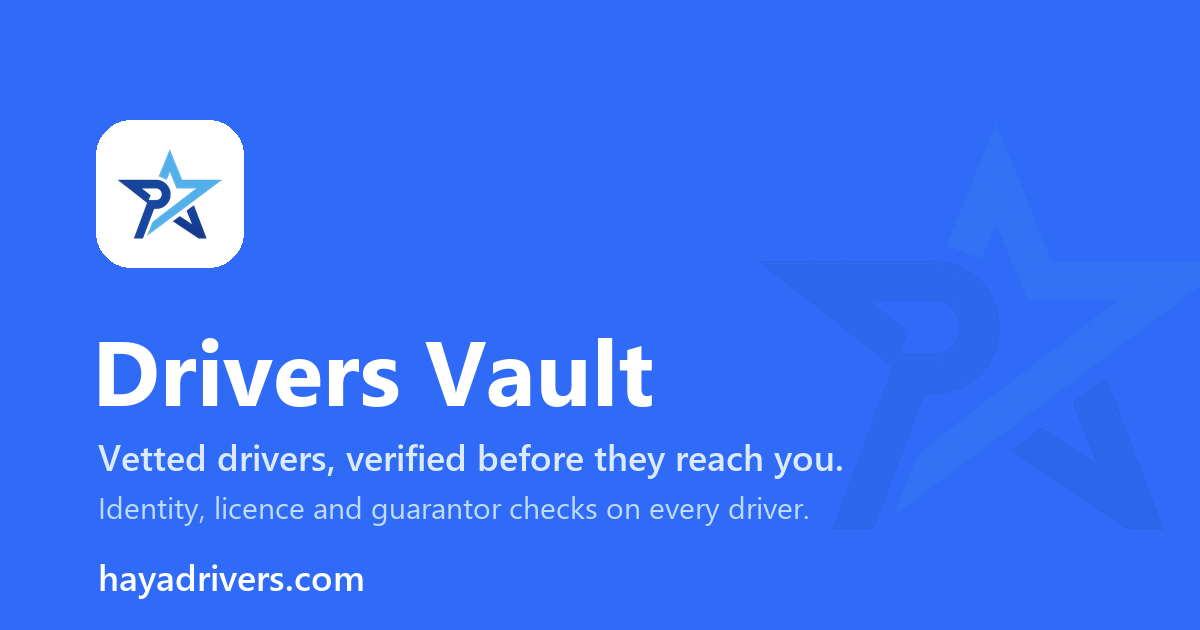
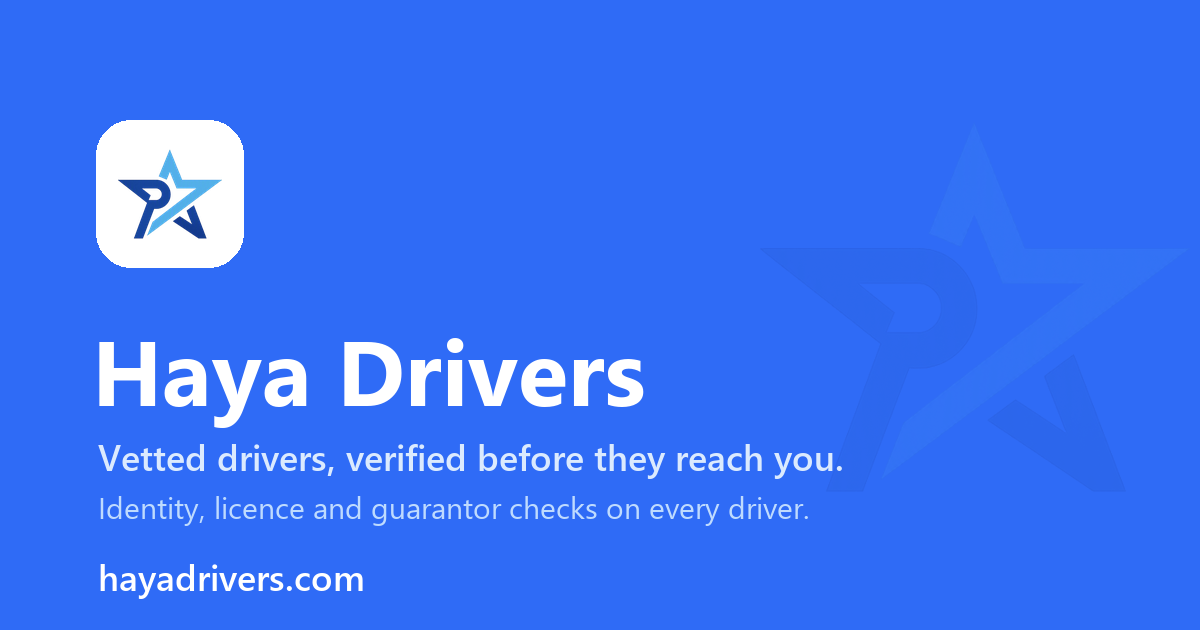
renamed all instances of drivers vault across the codebase to haya drivers

Changed region(s): [[0.0925, 0.5429, 0.555, 0.6937]]

diff --git a/app/page.tsx b/app/page.tsx
@@ -13,7 +13,7 @@ import { WhySection } from "@/components/landing/why-section";
 export const metadata: Metadata = {
   title: "Hire verified drivers in Nigeria",
   description:
-    "Hire a verified professional driver for a single trip, a recurring schedule, or your whole business. Every Drivers Vault driver passes identity, licence and background checks before they reach you.",
+    "Hire a verified professional driver for a single trip, a recurring schedule, or your whole business. Every Haya Drivers driver passes identity, licence and background checks before they reach you.",
   keywords: [
     "hire a driver",
     "verified drivers",
@@ -22,17 +22,17 @@ export const metadata: Metadata = {
     "private driver Lagos",
   ],
   openGraph: {
-    title: "Drivers Vault - Drivers, verified before they reach you",
+    title: "Haya Drivers - Drivers, verified before they reach you",
     description:
       "Hire a verified professional driver for a single trip, a recurring schedule, or your whole business - without agencies or guesswork.",
     type: "website",
-    siteName: "Drivers Vault",
+    siteName: "Haya Drivers",
     url: "/",
     images: [{ url: "/og-image.png", width: 1200, height: 630 }],
   },
   twitter: {
     card: "summary_large_image",
-    title: "Drivers Vault - Drivers, verified before they reach you",
+    title: "Haya Drivers - Drivers, verified before they reach you",
     description:
       "Hire a verified professional driver without agencies or guesswork.",
     images: ["/og-image.png"],
@@ -51,7 +51,7 @@ export default function Home() {
         <FindDriverSection />
 
         <WhySection
-          chip="Why clients choose Drivers Vault"
+          chip="Why clients choose Haya Drivers"
           heading="Peace of mind on every trip"
           features={[
             {
@@ -73,7 +73,7 @@ export default function Home() {
           ctaLabel="Sign up"
           ctaHref="/auth/signup"
           screenshot="/landing/client-dash.png"
-          screenshotAlt="The Drivers Vault client dashboard"
+          screenshotAlt="The Haya Drivers client dashboard"
         />
 
         <StepsSection
@@ -115,7 +115,7 @@ export default function Home() {
             },
             {
               quote:
-                "We staff three routes with Drivers Vault drivers now. Same faces, every week, zero agency overhead.",
+                "We staff three routes with Haya Drivers drivers now. Same faces, every week, zero agency overhead.",
               name: "Adaeze Nwosu",
               place: "Port Harcourt, Nigeria",
               avatar: "/landing/avatar-emmanuel.png",
@@ -134,7 +134,7 @@ export default function Home() {
             {
               question: "What does it cost?",
               answer:
-                "Each driver sets a clear monthly rate you see before you request them. You pay from your Drivers Vault wallet or by bank transfer, with the platform fee itemised upfront-no hidden charges.",
+                "Each driver sets a clear monthly rate you see before you request them. You pay from your Haya Drivers wallet or by bank transfer, with the platform fee itemised upfront-no hidden charges.",
             },
             {
               question: "Can I book recurring trips?",
@@ -162,7 +162,7 @@ export default function Home() {
               driver today
             </>
           }
-          body="Tell Drivers Vault what you need and get matched with a verified professional-usually within a day."
+          body="Tell Haya Drivers what you need and get matched with a verified professional-usually within a day."
           ctaLabel="Start hiring"
           ctaHref="/auth/signup"
         />

diff --git a/app/drivers/page.tsx b/app/drivers/page.tsx
@@ -22,17 +22,17 @@ export const metadata: Metadata = {
     "become a driver",
   ],
   openGraph: {
-    title: "Drive on your terms. Earn what you're worth - Drivers Vault",
+    title: "Drive on your terms. Earn what you're worth - Haya Drivers",
     description:
       "Clear pay, fair terms, verified clients. Apply, get verified, and pick the driving jobs that suit you.",
     type: "website",
-    siteName: "Drivers Vault",
+    siteName: "Haya Drivers",
     url: "/drivers",
     images: [{ url: "/og-image.png", width: 1200, height: 630 }],
   },
   twitter: {
     card: "summary_large_image",
-    title: "Drive on your terms. Earn what you're worth - Drivers Vault",
+    title: "Drive on your terms. Earn what you're worth - Haya Drivers",
     description:
       "Clear pay, fair terms, verified clients. Pick the driving jobs that suit you.",
     images: ["/og-image.png"],
@@ -51,7 +51,7 @@ export default function DriversLanding() {
         <ForDriversSection />
 
         <WhySection
-          chip="Why drive with Drivers Vault"
+          chip="Why drive with Haya Drivers"
           heading="Work that respects your profession"
           features={[
             {
@@ -73,7 +73,7 @@ export default function DriversLanding() {
           ctaLabel="Sign up"
           ctaHref="/driver/auth/signup"
           screenshot="/landing/driver-dash.png"
-          screenshotAlt="The Drivers Vault driver dashboard"
+          screenshotAlt="The Haya Drivers driver dashboard"
         />
 
         <StepsSection
@@ -134,7 +134,7 @@ export default function DriversLanding() {
             {
               question: "How do I get paid?",
               answer:
-                "Earnings land in your Drivers Vault wallet when a job completes, and you withdraw to your own bank account whenever you choose. You always see the full pay for a job before you accept it.",
+                "Earnings land in your Haya Drivers wallet when a job completes, and you withdraw to your own bank account whenever you choose. You always see the full pay for a job before you accept it.",
             },
             {
               question: "Can I choose my own schedule?",

diff --git a/app/terms/page.tsx b/app/terms/page.tsx
@@ -5,7 +5,7 @@ import { LegalShell } from "@/components/legal/legal-shell";
 export const metadata: Metadata = {
   title: "Terms of service",
   description:
-    "The terms that govern your use of Drivers Vault - for clients hiring drivers and for drivers offering their services.",
+    "The terms that govern your use of Haya Drivers - for clients hiring drivers and for drivers offering their services.",
   alternates: { canonical: "/terms" },
 };
 
@@ -14,7 +14,7 @@ export default function TermsOfService() {
     <LegalShell title="Terms of service" updated="29 September 2026">
       <section>
         <p>
-          These terms govern your use of Drivers Vault (the "platform", "we",
+          These terms govern your use of Haya Drivers (the "platform", "we",
           "us"), a service that connects clients with vetted, professional
           drivers in Nigeria. By creating an account or using the platform you
           agree to these terms. If you do not agree, do not use the platform.
@@ -22,9 +22,9 @@ export default function TermsOfService() {
       </section>
 
       <section>
-        <h2>1. What Drivers Vault does</h2>
+        <h2>1. What Haya Drivers does</h2>
         <p>
-          Drivers Vault verifies the identity, driving licence and guarantor of
+          Haya Drivers verifies the identity, driving licence and guarantor of
           every driver on the platform before they can be hired, and brokers
           engagements between clients and drivers. We facilitate introductions,
           invoicing and payment administration. Unless expressly stated

diff --git a/app/(app)/dashboard/my-hire/[reference]/page.tsx b/app/(app)/dashboard/my-hire/[reference]/page.tsx
@@ -59,7 +59,7 @@ export default function HireDetail({
 
   const started = new Date(hire.starts_at).getTime() <= Date.now();
 
-  // No stored Drivers Vault ID exists - this is a stable display form of the driver's
+  // No stored Haya Drivers ID exists - this is a stable display form of the driver's
   // record id, not a second identifier.
   const tegatId = hire.driver
     ? `TG-DRV-${hire.driver.id.slice(-4).toUpperCase()}`
@@ -73,7 +73,7 @@ export default function HireDetail({
     .join(", ");
 
   const profileRows = [
-    { label: "Drivers Vault ID", value: tegatId },
+    { label: "Haya Drivers ID", value: tegatId },
     {
       label: "Gender",
       value: hire.driver_details?.gender
@@ -205,7 +205,7 @@ export default function HireDetail({
         <div className="space-y-6">
           <div className="border-border rounded-2xl border bg-white p-5 md:p-6">
             <AppText type="h3" className="text-base font-semibold">
-              Drivers Vault profile
+              Haya Drivers profile
             </AppText>
             <div className="mt-4 space-y-3">
               {profileRows.map((row) => (

diff --git a/components/shared/site-footer.tsx b/components/shared/site-footer.tsx
@@ -16,7 +16,7 @@ export const SiteFooter = function () {
         <div className="max-w-sm">
           <div className="flex items-center gap-2">
             <TegatLogo size={28} />
-            <span className="font-serif text-xl">Drivers Vault</span>
+            <span className="font-serif text-xl">Haya Drivers</span>
           </div>
           <p className="mt-4 text-sm leading-relaxed text-white/70">
             Vetted drivers and professional staff, verified against NIMC, FRSC
@@ -69,7 +69,7 @@ export const SiteFooter = function () {
 
       <div className="border-t border-white/15">
         <div className="mx-auto flex max-w-7xl flex-col gap-2 px-4 py-5 text-xs text-white/60 md:flex-row md:items-center md:justify-between md:px-8">
-          <p>© 2026 Drivers Vault. All rights reserved.</p>
+          <p>© 2026 Haya Drivers. All rights reserved.</p>
           <span className="flex items-center gap-4">
             <Link href="/terms" className="transition-colors hover:text-white">
               Terms of service

diff --git a/app/privacy/page.tsx b/app/privacy/page.tsx
@@ -5,7 +5,7 @@ import { LegalShell } from "@/components/legal/legal-shell";
 export const metadata: Metadata = {
   title: "Privacy policy",
   description:
-    "How Drivers Vault collects, uses, shares and protects your personal data.",
+    "How Haya Drivers collects, uses, shares and protects your personal data.",
   alternates: { canonical: "/privacy" },
 };
 
@@ -14,7 +14,7 @@ export default function PrivacyPolicy() {
     <LegalShell title="Privacy policy" updated="29 September 2026">
       <section>
         <p>
-          This policy explains what personal data Drivers Vault ("we", "us")
+          This policy explains what personal data Haya Drivers ("we", "us")
           collects, why we collect it, who we share it with and the choices you
           have. We process personal data in line with the Nigeria Data
           Protection Act and only for the purposes described here.

diff --git a/app/driver/(app)/dashboard/settings/page.tsx b/app/driver/(app)/dashboard/settings/page.tsx
@@ -44,7 +44,7 @@ function SettingsContent() {
     <div className="mx-auto max-w-6xl space-y-6">
       <PageHeader
         title="Settings"
-        subtitle="Manage your profile, payments and how Drivers Vault reaches you."
+        subtitle="Manage your profile, payments and how Haya Drivers reaches you."
         action={
           <Button
             variant="outline"
@@ -100,7 +100,7 @@ function SettingsContent() {
         onOpenChange={setSignOutOpen}
         icon={LogOut}
         iconClassName="text-destructive"
-        title="Sign out of Drivers Vault?"
+        title="Sign out of Haya Drivers?"
         description="You'll need your email and password to sign back in."
         confirmLabel="Sign out"
         confirmVariant="destructive"

diff --git a/app/(app)/dashboard/settings/page.tsx b/app/(app)/dashboard/settings/page.tsx
@@ -35,7 +35,7 @@ function SettingsContent() {
     <div className="mx-auto max-w-6xl space-y-6">
       <PageHeader
         title="Settings"
-        subtitle="Manage your profile, security and how Drivers Vault reaches you."
+        subtitle="Manage your profile, security and how Haya Drivers reaches you."
         action={
           <Button
             variant="outline"
@@ -76,7 +76,7 @@ function SettingsContent() {
         onOpenChange={setSignOutOpen}
         icon={LogOut}
         iconClassName="text-destructive"
-        title="Sign out of Drivers Vault?"
+        title="Sign out of Haya Drivers?"
         description="You'll need your email and password to sign back in."
         confirmLabel="Sign out"
         confirmVariant="destructive"

diff --git a/app/_lib/site.ts b/app/_lib/site.ts
@@ -1,7 +1,7 @@
-export const SITE_NAME = "Drivers Vault";
+export const SITE_NAME = "Haya Drivers";
 
 export const SITE_URL =
   process.env.NEXT_PUBLIC_SITE_URL ?? "https://hayadrivers.com";
 
 export const SITE_DESCRIPTION =
-  "Hire drivers you can actually trust. Drivers Vault vets every candidate against national identity, licence and guarantor checks, then scores them on reliability.";
+  "Hire drivers you can actually trust. Haya Drivers vets every candidate against national identity, licence and guarantor checks, then scores them on reliability.";

diff --git a/lib/admin.ts b/lib/admin.ts
@@ -30,7 +30,7 @@ export const clientName = (client: {
   client_profile?: { organisation_name: string | null } | null;
 }) => client.client_profile?.organisation_name || personName(client);
 
-// No stored Drivers Vault ID exists - this is a stable display form of the record id,
+// No stored Haya Drivers ID exists - this is a stable display form of the record id,
 // not a second identifier.
 export const tegatDisplayId = (userId: string, role: "DRIVER" | "CLIENT") =>
   `TG-${role === "DRIVER" ? "DRV" : "CLT"}-${userId.slice(-4).toUpperCase()}`;

diff --git a/components/landing/client/find-driver-section.tsx b/components/landing/client/find-driver-section.tsx
@@ -24,7 +24,7 @@ export const FindDriverSection = function () {
             Find the right driver
           </h2>
           <p className="mt-4 max-w-lg text-sm leading-relaxed text-blue-100 md:text-base">
-            Drivers Vault vets every candidate against national identity, licence
+            Haya Drivers vets every candidate against national identity, licence
             and police records, then scores them on reliability so you decide
             with confidence.
           </p>

diff --git a/components/landing-legacy/hero.tsx b/components/landing-legacy/hero.tsx
@@ -27,7 +27,7 @@ export const Hero = function () {
               Hire drivers you can actually trust.
             </h1>
             <p className="mt-5 text-base text-white/85 md:text-lg">
-              Drivers Vault vets every candidate against national identity,
+              Haya Drivers vets every candidate against national identity,
               licence and police records, then scores them on reliability so you
               decide with confidence.
             </p>
